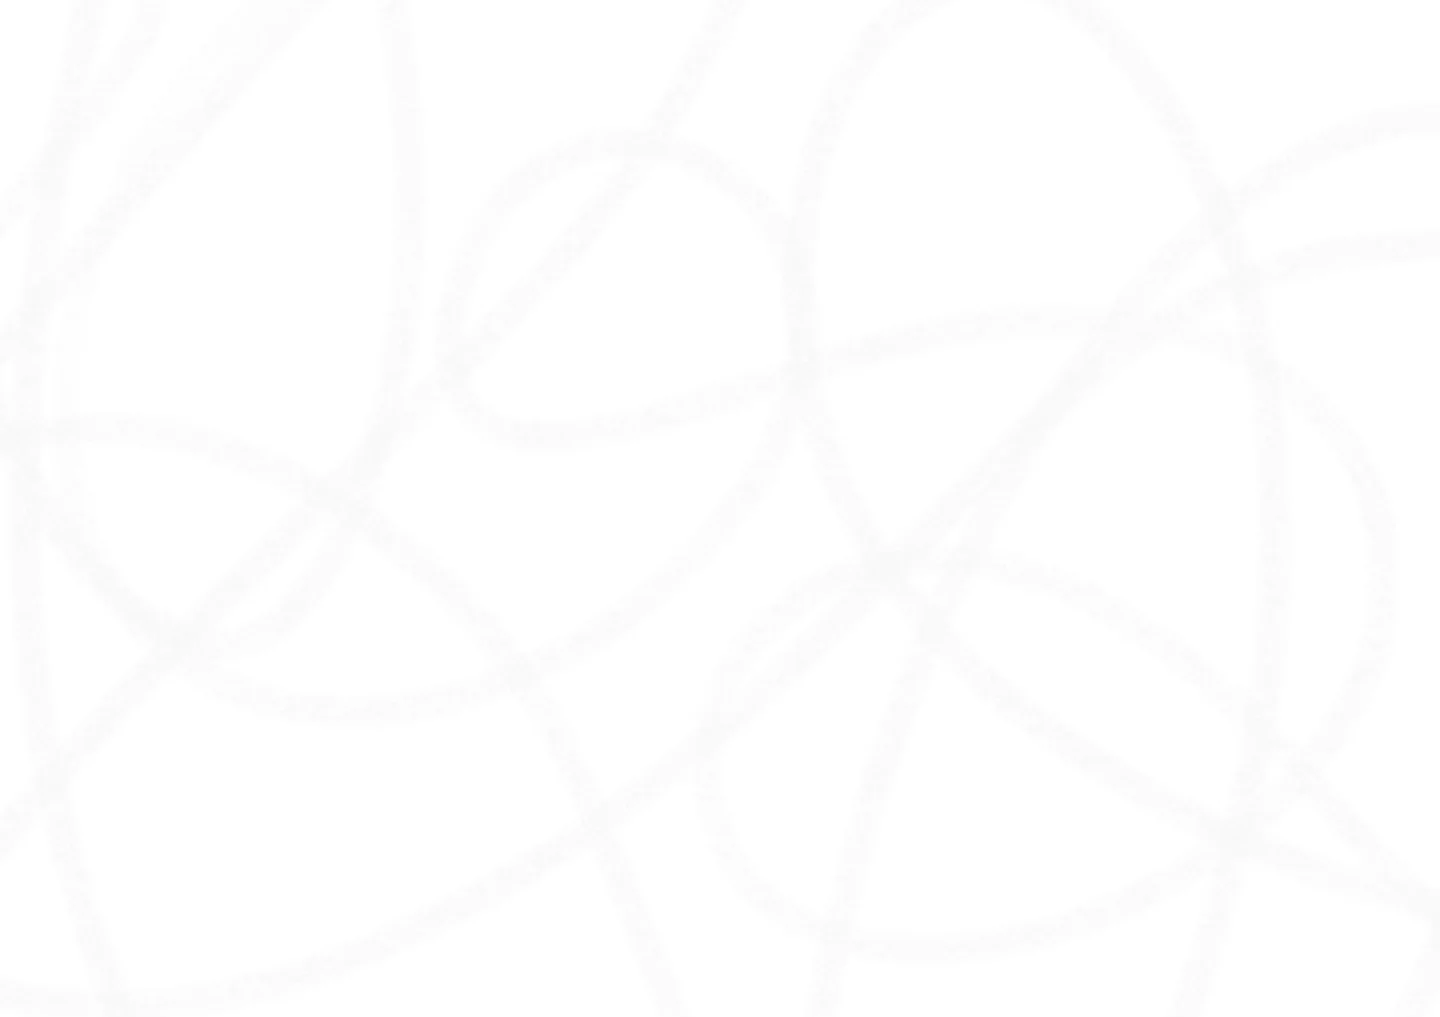
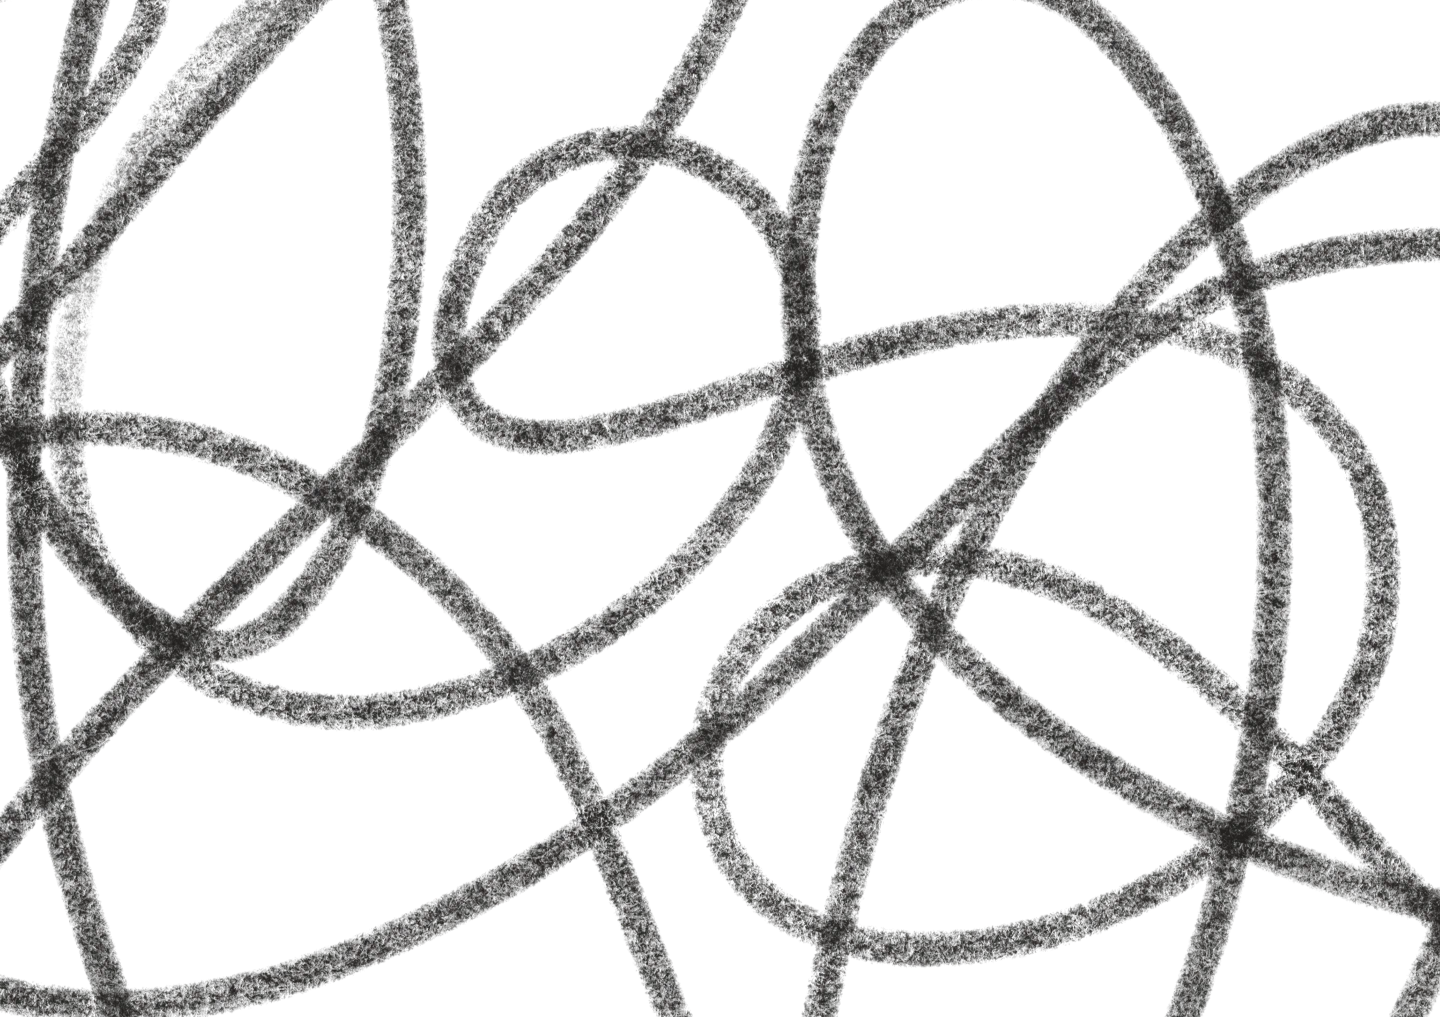
fix(demo-showcase): re-export bg pattern at full opacity, control via CSS
The previous export baked Figma's 3% fill opacity into the image
pixels, making the pattern invisible regardless of CSS opacity.
Re-exported at 100% fill opacity from Figma, now controlling
visibility purely via CSS opacity: 0.03. Pattern is now visible.

Also renamed Figma layer from 'image 328' to 'demo-bg-pattern'.

Changed region(s): [[0.0, 0.0, 1.0, 1.0]]

diff --git a/src/pages/demo-showcase/index.tsx b/src/pages/demo-showcase/index.tsx
@@ -201,7 +201,7 @@ export default function DemoShowcasePage() {
           width: 1920px;
           height: 1080px;
           object-fit: cover;
-          opacity: 0.30;
+          opacity: 0.03;
           pointer-events: none;
           z-index: 0;
         }
